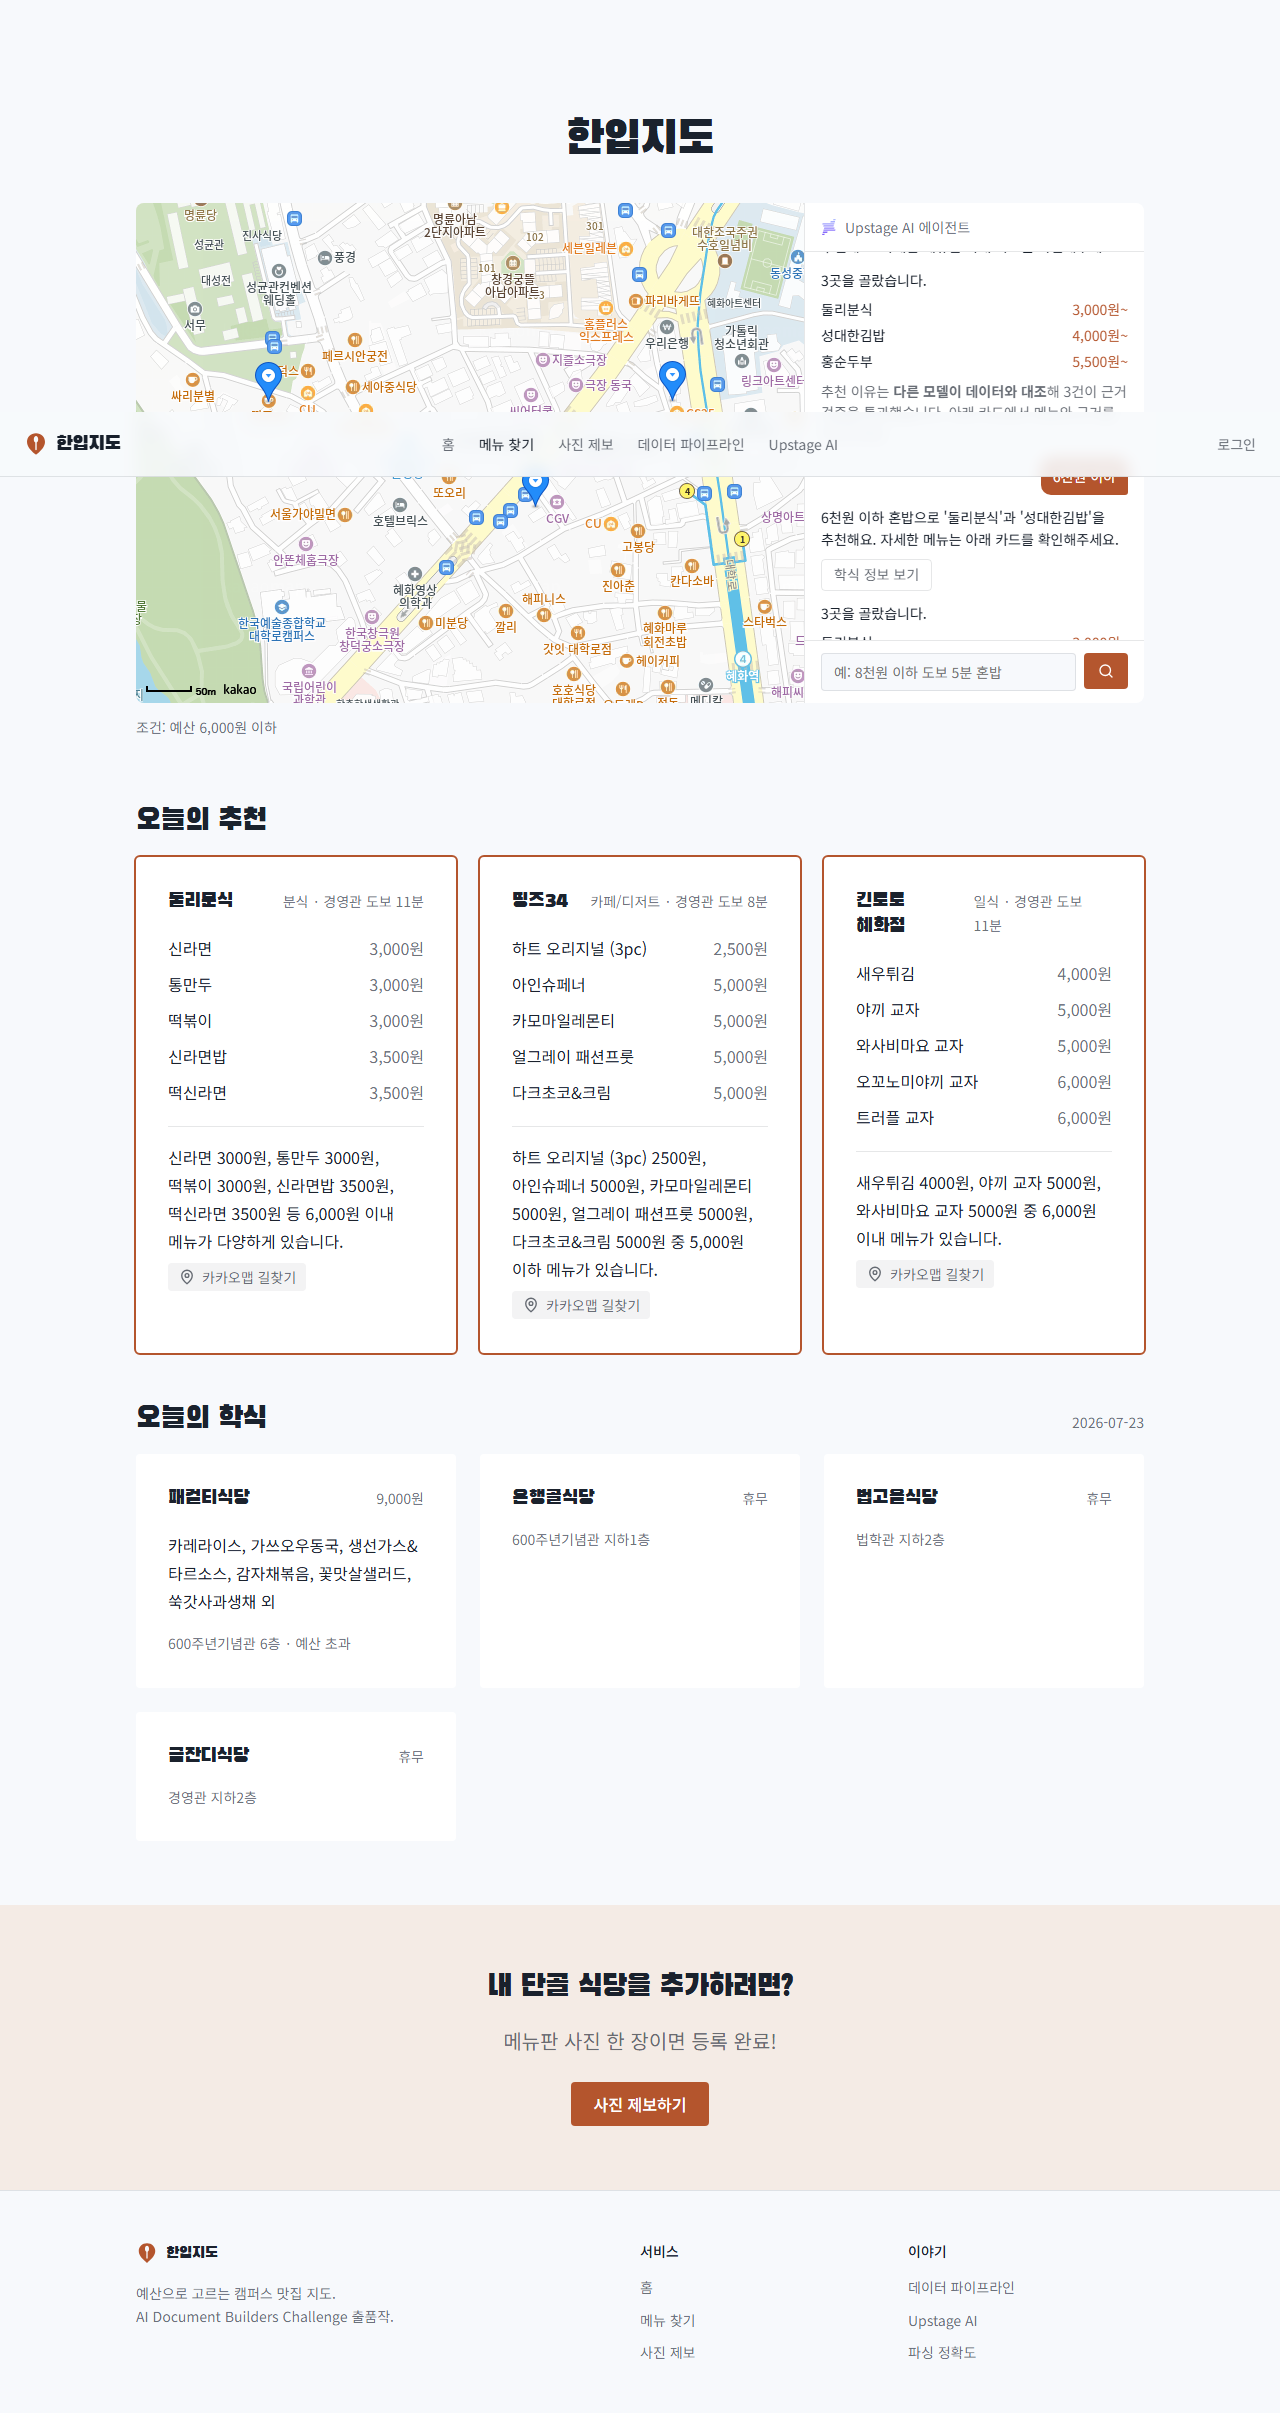
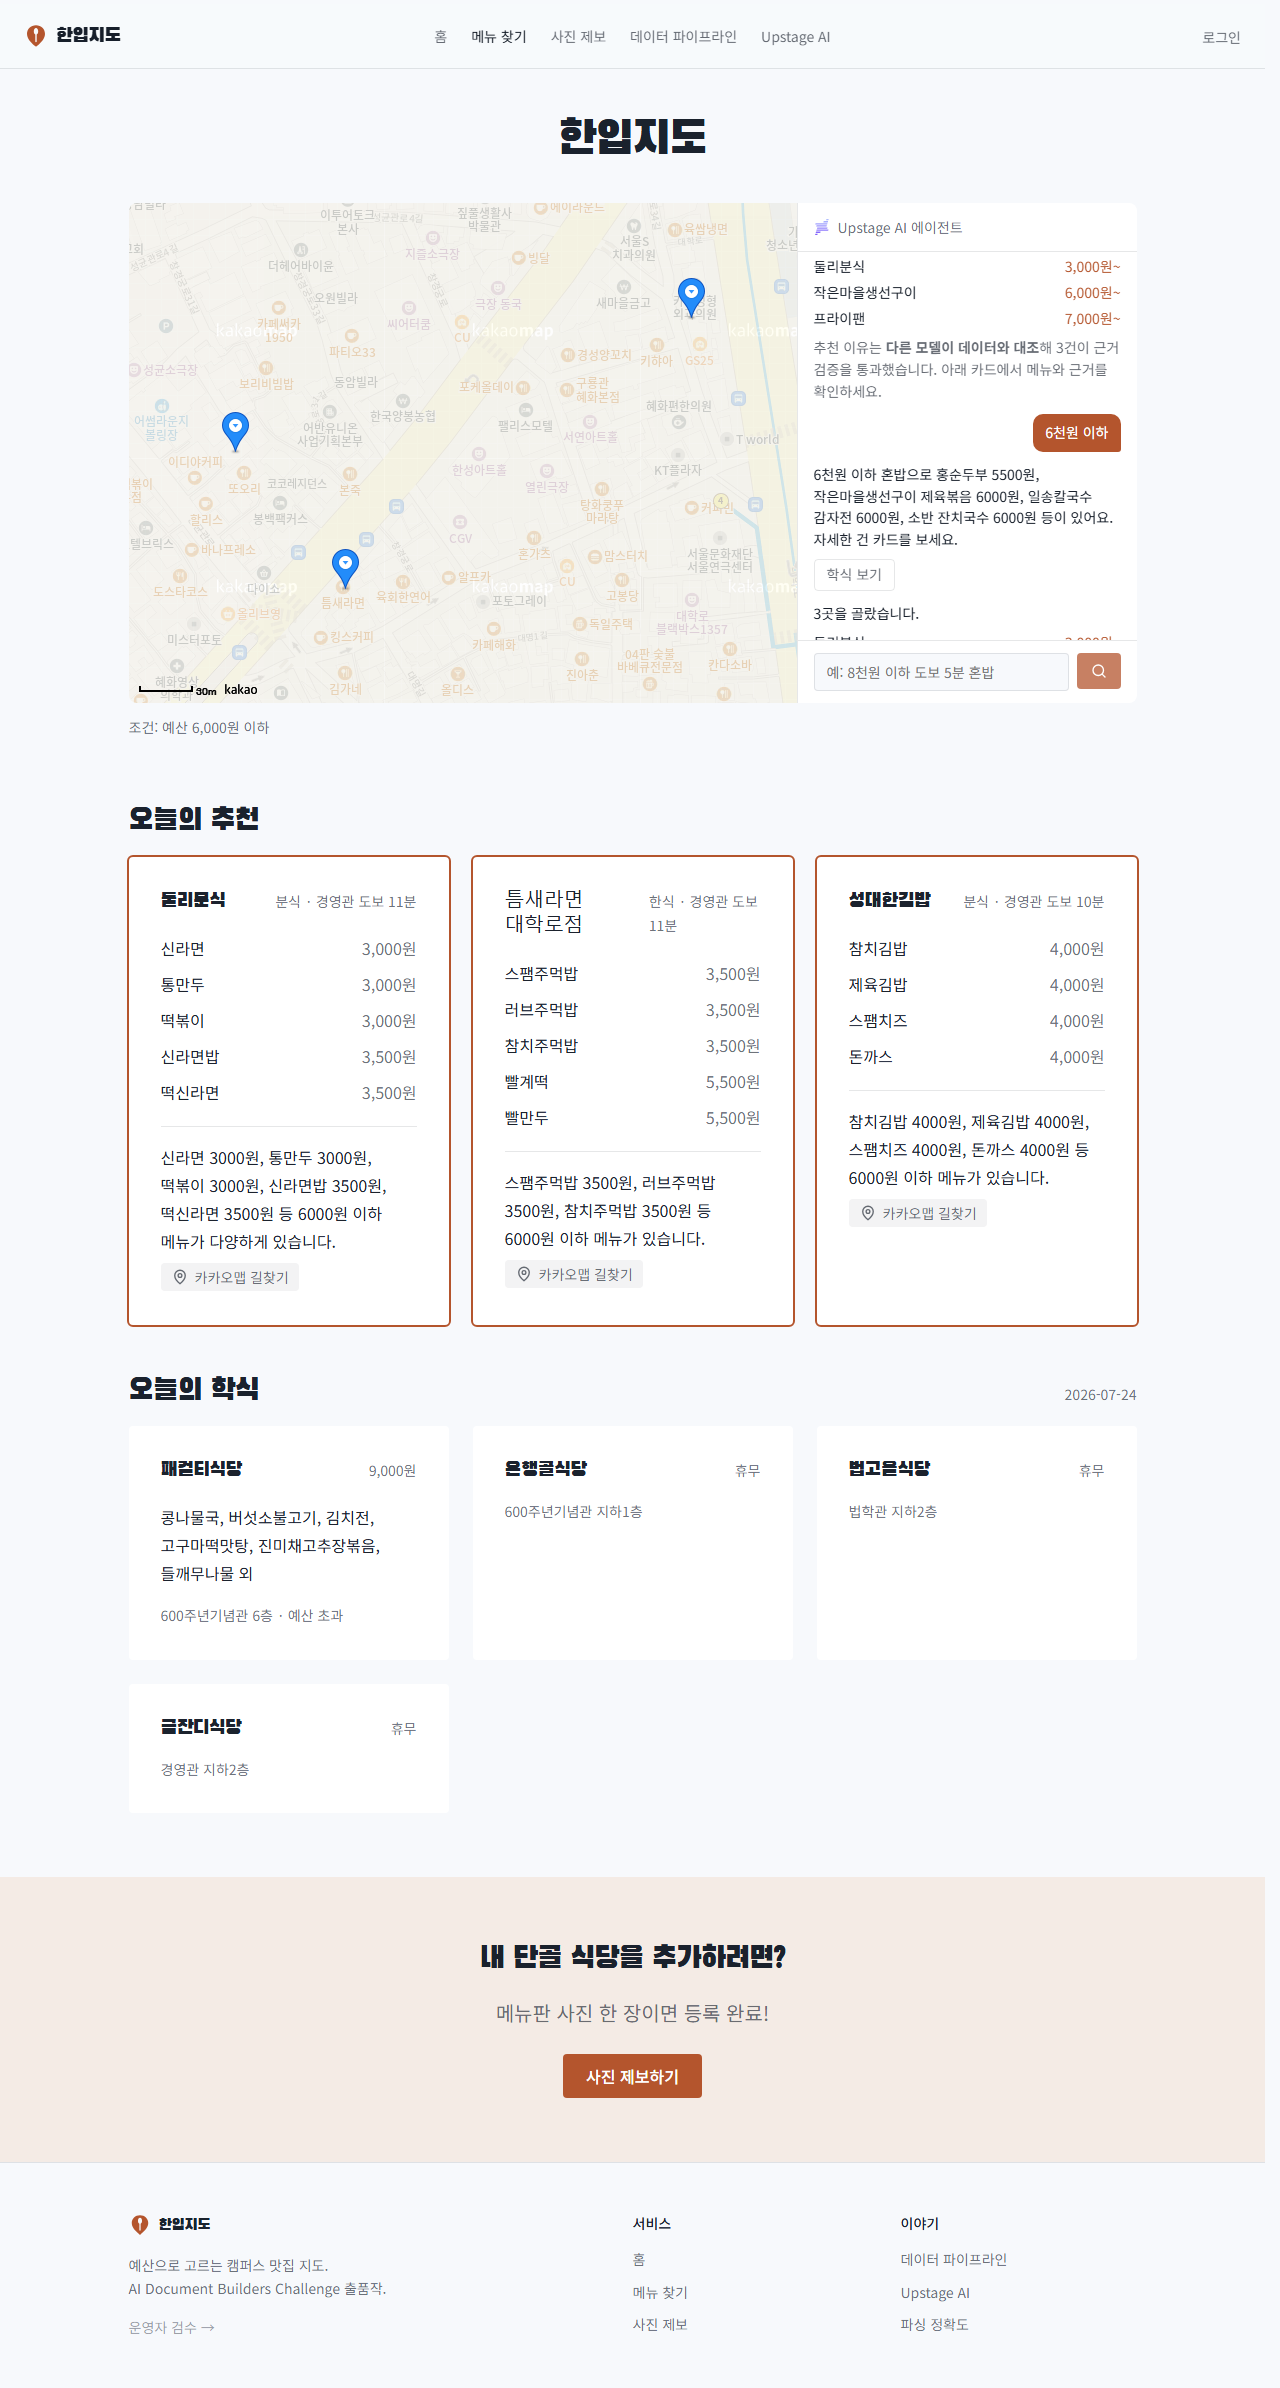
docs+verification: HANDOFF §0 문장 압축 + 검수 화면 스크린샷 4장 추가
데모데이 마감 후 워킹트리 정리. 스크린샷은 DR 검증 산출물
(검수 일괄 처리·분류·사진 동반·about 패널)이고 smoke-final 은 최종 실행본.

diff --git a/docs/HANDOFF.md b/docs/HANDOFF.md
@@ -8,8 +8,7 @@
 
 ## 0. 제일 먼저 알아야 할 것
 
-이 프로젝트에서 진짜 어려웠던 건 **Upstage API를 호출하는 일이 아니었다.** 그건 반나절이면 된다.
-어려웠던 건 그 다음이다 — **파싱 결과를 믿을 수 있게 만드는 일.**
+이 프로젝트에서 진짜 어려웠던 건 **파싱 결과를 믿을 수 있게 만드는 일.**
 
 파싱 정확도가 76.4%라는 건, 넷 중 하나는 틀린 채로 서비스에 나간다는 뜻이다.
 그래서 이 레포의 절반은 파이프라인이고 나머지 절반은 **"틀린 걸 걸러내는 장치"**다.
